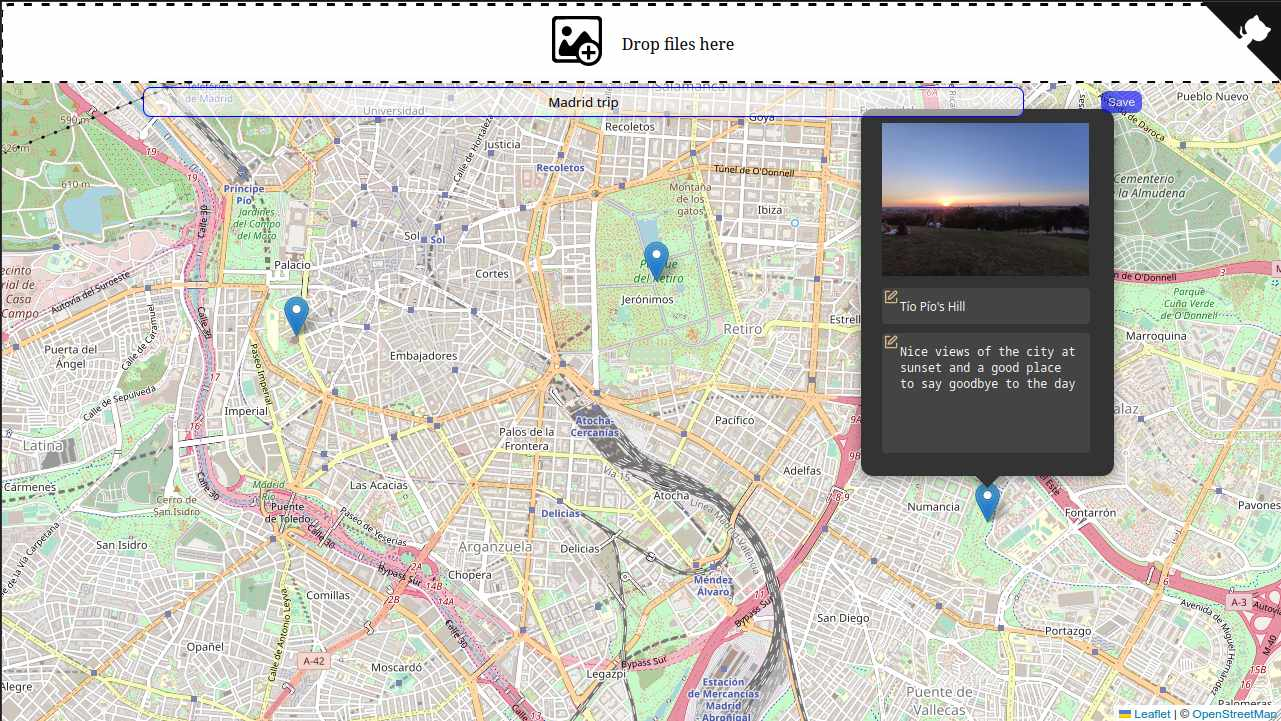
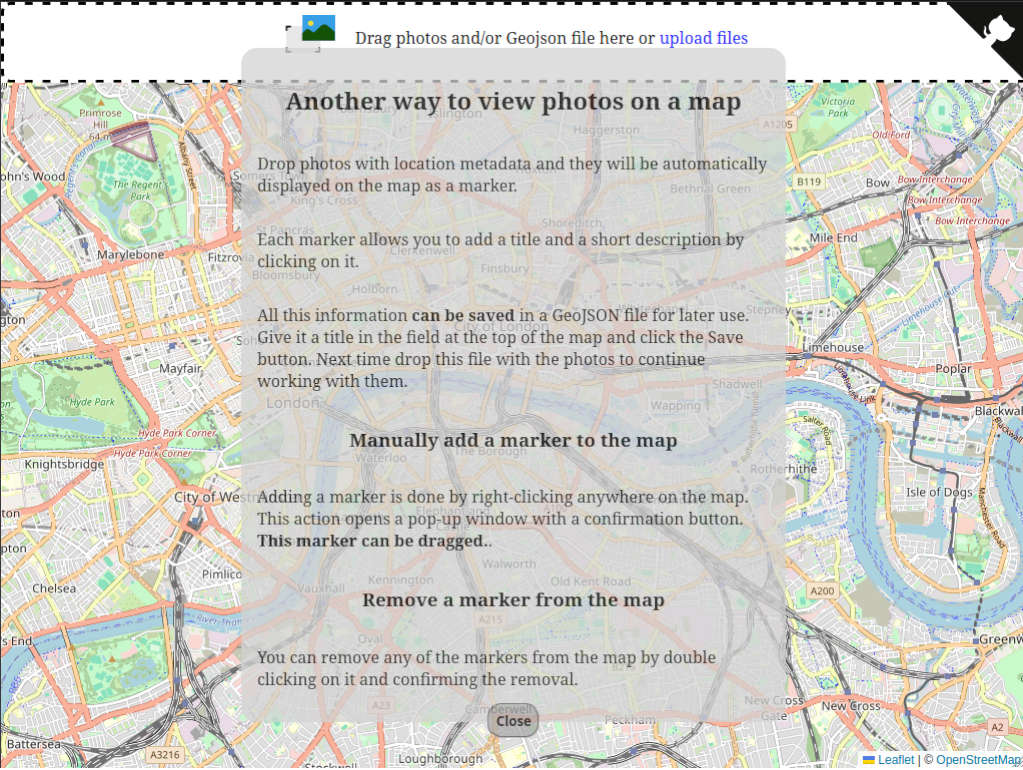
doc: updated with a new design and explanations

diff --git a/README.md b/README.md
@@ -10,15 +10,17 @@ Let's suppose we have some photos of a trip
 
 and we want to add information to have in the future.
 
-As we can see in the animation below, the information will be saved in a [GeoJSON](https://geojson.org/) file for later use.
+As we can see in the video below,
 
 https://github.com/migupl/where-was-the-photo-taken/assets/1670474/ae540af7-3a8e-4dd9-bc30-d59f51d55c3b
 
-The name for the saved file will be the text of the main input field. *Madrid trip* in this example.
+The information will be saved in a [GeoJSON](https://geojson.org/) file for later use. *Madrid.geojson* in this case where the name corresponds to the text of the main text field
 
-If the browser supports the showSaveFilePicker() method of the Window interface, such as Chrome, you could choose the folder where the GeoJSON will be saved.
+The videos show the existing functionality although the actual layout is a bit different. As you can see below, files can be dragged or selected for uploading.
 
-Then, by adding this GeoJSON file and the photos we can continue adding information to them as we can see below
+<img src="./docs/new_layout.webp" width="75%" style="" alt="New Layout">
+
+Some time later we can retrieve the information by adding this GeoJSON file and the photos to work on them as we can see below
 
 https://github.com/migupl/where-was-the-photo-taken/assets/1670474/0f442c0f-e4e4-4147-8ba6-bf7d749d901b
 
@@ -34,7 +36,7 @@ https://github.com/migupl/where-was-the-photo-taken/assets/1670474/4b8ce691-5d9c
 
 ## Remove a marker from the map
 
-Any of the markers added to the map can be deleted by double clicking on it and confirming the deletion.
+Any of the markers on the map can be deleted by double clicking on it and confirming the deletion.
 
 https://github.com/migupl/where-was-the-photo-taken/assets/1670474/eecc83b4-5137-421f-bd50-0bab800fac09
 
@@ -47,3 +49,4 @@ Web Components behind this idea are:
 - [Locate the photo on a Leaflet map](https://github.com/migupl/vanilla-js-web-component-leaflet-geojson)
 - [Yet Another GitHub Corner](https://github.com/migupl/yagc)
 
+I hope you enjoy it!!!
